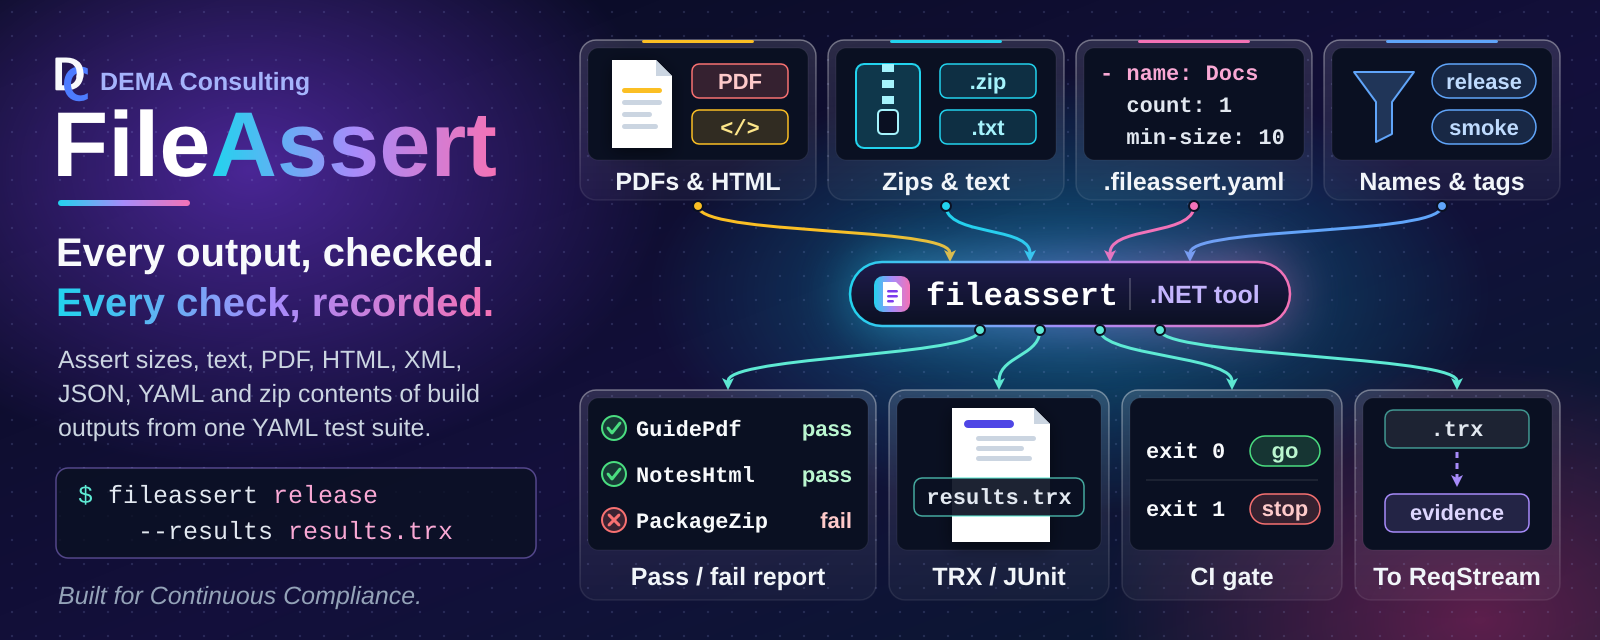
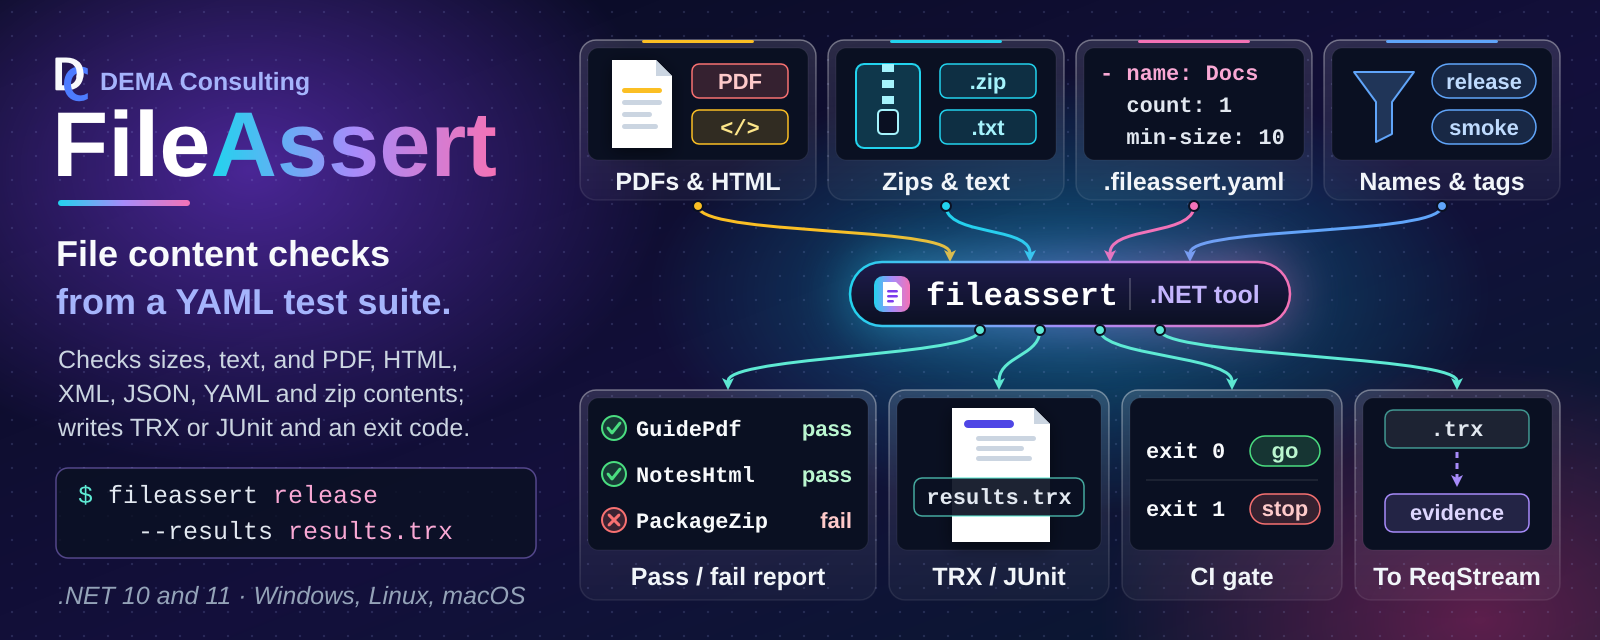
Sync agents/template and calm the README hero (#99)
* Sync shared agents, skills, standards, and AGENTS.md from Agents main

* Sync template: yamlfix comment setting and script CUSTOMIZATION headers

* Calm the README hero: plain tagline, hero as the H1

* Record the legacy SysML2 package layout as a standards exception

---------

Changed region(s): [[0.0312, 0.5312, 0.3125, 0.6875], [0.0312, 0.375, 0.3125, 0.5], [0.0312, 0.9062, 0.3438, 0.9688]]

diff --git a/.github/standards/sysml2-modeling.md b/.github/standards/sysml2-modeling.md
@@ -31,15 +31,15 @@ docs/sysml2/
 ├── common/
 │   └── software-items.sysml           # shared SoftwareItemMetadata::SoftwareInfo metadata def
 ├── model/
-│   ├── {system-name}.sysml            # system-level part def only (no subsystems/units inline)
+│   ├── {system-name}.sysml            # package {SystemName}; system-level part def only (no subsystems/units inline)
 │   ├── {system-name}/
-│   │   ├── {subsystem-name}.sysml     # subsystem part def; nests further for sub-subsystems
+│   │   ├── {subsystem-name}.sysml     # package {SystemName}_{SubsystemName}Subsystem; nests further for sub-subsystems
 │   │   └── {subsystem-name}/
-│   │       └── {unit-name}.sysml      # one file per unit
-│   ├── ots.sysml                      # OTS dependency parts (optional; if OTS items exist)
-│   └── shared.sysml                   # Shared Package parts (optional; if Shared Packages exist)
+│   │       └── {unit-name}.sysml      # package {SystemName}_{UnitName}; one file per unit
+│   ├── ots.sysml                      # package OtsDependencies: OTS parts (optional; if OTS items exist)
+│   └── shared.sysml                   # package SharedPackages: Shared Package parts (optional; if Shared Packages exist)
 └── views/
-    └── design-views.sysml             # named view usages rendered for the design document
+    └── design-views.sysml             # package {RepoName}DesignViews; named view usages rendered for the design document
 ```
 
 `docs/sysml2/common/software-items.sysml` defines the `SoftwareItemMetadata::SoftwareInfo`
@@ -62,14 +62,42 @@ so no single alias name would generalize. Agents discover the system(s) present 
 `docs/sysml2/**/*.sysml`, not by assuming a fixed name.
 
 Always pass the full set of `.sysml` files (or an equivalent glob) to every `sysml2tools`
-invocation — the model spans multiple files and cross-references between them; files sharing
-the same `package Name { ... }` merge into one namespace automatically with no `import`
-required, as long as all files are passed together. As of `sysml2tools` 0.1.0-beta.5,
+invocation — the model spans multiple files and cross-references between them, and a
+reference only resolves when the file declaring its target is loaded (see Package Structure
+below for how files reference each other). As of `sysml2tools` 0.1.0-beta.5,
 `lint` and `render` both expand `*`/`**` glob patterns internally (recursing correctly into
 subdirectories), so pass a single **quoted** glob string (e.g. `'docs/sysml2/**/*.sysml'`)
 and let the tool resolve it — do not rely on the shell to expand it, and do not quote-strip
 the pattern before it reaches the tool. Quoting keeps the behavior identical across
 PowerShell and bash, since neither shell needs to (or reliably does) expand `**` itself.
+
+## Package Structure
+
+SysML v2 has no package merging: each file is its own root namespace, and two root packages
+with the same name are duplicate members of the global namespace (the OMG Pilot
+Implementation reports "Duplicate of other owned member name" for each, and references across
+the halves do not resolve). A model that only loads because a tool is lenient is not portable,
+so:
+
+- Each `.sysml` file declares **exactly one uniquely named package**, and a package is never
+  declared (or "reopened") in more than one file.
+- Name each package from its place in the hierarchy, joined with an underscore:
+  `{SystemName}` for the system file, `{SystemName}_{SubsystemName}Subsystem` for a subsystem
+  (including a nested sub-subsystem, which is not prefixed with its parent subsystem), and
+  `{SystemName}_{UnitName}` for a unit. The system prefix keeps names unique across systems.
+  The shared files use `OtsDependencies` and `SharedPackages`, and the single views file uses
+  one repository-level package, `{RepoName}DesignViews` (not one per system).
+- Package names must be unique **repository-wide**. The short forms above are the default;
+  when one would collide (two `Storage` subsystems in different branches, or two units named
+  `Cache` in different subsystems), qualify it with the owning subsystem path, for example
+  `{SystemName}_{SubsystemName}_{UnitName}` (`Acme_Ingest_Cache` and `Acme_Query_Cache`).
+- Reference other files with an explicit `private import {PackageName}::*;` (a system or
+  subsystem file imports the package of each direct member so its `part` usages resolve; every
+  file that applies `SoftwareInfo` imports `SoftwareItemMetadata::*`).
+- Where an import would form a cycle (for example a unit that depends on a package that
+  already imports it), or for a one-off reference into another system, use the qualified name
+  instead, e.g. `dependency {UnitName} to {SystemName}_{OtherUnit}::{OtherUnit};`.
+  Import cycles raise a lint warning; qualified references do not.
 
 ## Model Content
 
@@ -174,11 +202,13 @@ Views control what gets rendered into diagrams for the design document. Use name
 **usages** (not `view def` **definitions**) — `expose` is only valid inside a usage:
 
 ```sysml
-package {SystemName} {
+package {RepoName}DesignViews {
     private import StandardViewDefinitions::*;
+    private import {SystemName}::*;
+    private import {SystemName}_{SubsystemName}Subsystem::*;
 
     view SoftwareStructureView : InterconnectionView {
-        expose {SystemName}::**;     // all members, recursively: system + subsystems + units
+        expose {SystemName}::{SystemName}System::**;  // system part def, recursively: subsystems + units
     }
 
     view {SystemName}View {
@@ -186,10 +216,12 @@ package {SystemName} {
     }
 
     view {SubsystemName}View {
-        expose {SubsystemName};      // one subsystem def only
+        expose {SubsystemName}Subsystem;      // one subsystem def only
     }
 }
 ```
+
+Views import (or qualify) every package whose members they expose, like any other file.
 
 Type `SoftwareStructureView` by a standard view definition from the SysML v2 Views library
 (`GeneralView`, `InterconnectionView`, ...; requires `sysml2tools` 0.3.0-beta.3+). The view
@@ -223,25 +255,27 @@ There is no dedicated `DependencyView`/`{SubsystemName}DependencyView` diagram c
 above), not rendered.
 
 When a repository has multiple systems, type `SoftwareStructureView` by `GeneralView`,
-expose each system package's members, and filter out documentation so the overview stays
-readable — the general view draws one package frame per system, while an interconnection
-view places all systems in a single row:
+expose each system's part def (and each subsystem's, by qualified name), and filter out
+documentation so the overview stays readable — the general view draws one package frame per
+system, while an interconnection view places all systems in a single row:
 
 ```sysml
 package {RepoName}DesignViews {
     private import StandardViewDefinitions::*;
 
     view SoftwareStructureView : GeneralView {
-        expose {SystemNameA}::**;
-        expose {SystemNameB}::**;
-        filter not @SysML::Documentation;
+        expose {SystemNameA}::{SystemNameA}System;
+        expose {SystemNameA}_{SubsystemName}Subsystem::{SubsystemName}Subsystem;
+        expose {SystemNameB}::{SystemNameB}System;
+        filter not (@SysML::Documentation);
     }
 }
 ```
 
 Documentation (`doc`) is exposed with its owner and drawn as a `doc` compartment unless a
-view filters it out; use `filter not @SysML::Documentation;` wherever doc text would clutter
-a diagram.
+view filters it out; use `filter not (@SysML::Documentation);` wherever doc text would clutter
+a diagram. The parentheses are required: the SysML v2 grammar does not accept the unparenthesized
+`filter not @SysML::Documentation;`.
 
 ## Diagram Embedding
 
@@ -313,6 +347,9 @@ sync.
   `sourceFiles`; the purpose statement appears only in the `doc` comment, never in `SoftwareInfo`
 - [ ] `docs/sysml2/views/design-views.sysml` uses `view Name { expose ...; }` usages, not
   `view def` definitions
+- [ ] Each `.sysml` file declares exactly one uniquely named package (never the same package
+  in two files), named per Package Structure, and references other files through
+  `private import` or qualified names (qualified where an import would form a cycle)
 - [ ] View names follow the `SoftwareStructureView` / `{SystemName}View` /
   `{SubsystemName}View` convention (no dedicated `DependencyView`)
 - [ ] Each Unit's real collaborators are captured as `dependency A to B;` statements, and each

diff --git a/.github/skills/sysml2tools-query/SKILL.md b/.github/skills/sysml2tools-query/SKILL.md
@@ -21,11 +21,15 @@ dotnet tool restore
 ## Model files
 
 - `docs/sysml2/model/{system-name}.sysml` — system-level `part def` only (no subsystems/units
-  inline). A repository may contain more than one system.
+  inline), in package `{SystemName}`. A repository may contain more than one system.
 - `docs/sysml2/model/{system-name}/{subsystem-name}.sysml` and
   `docs/sysml2/model/{system-name}/{subsystem-name}/{unit-name}.sysml` — one file per
   Subsystem/Unit, nested to mirror the same folder depth as that item's companion
-  `docs/design/`, `docs/reqstream/`, and `docs/verification/` files.
+  `docs/design/`, `docs/reqstream/`, and `docs/verification/` files. Each declares its own
+  uniquely named package; by default `{SystemName}_{SubsystemName}Subsystem` or
+  `{SystemName}_{UnitName}`, qualified with the subsystem path
+  (`{SystemName}_{SubsystemName}_{UnitName}`) when the short name would collide. An element's
+  qualified name is e.g. `{SystemName}_{UnitName}::{UnitName}`.
 - `docs/sysml2/model/ots.sysml` — off-the-shelf (OTS) dependency parts (present when OTS items
   exist).
 - `docs/sysml2/model/shared.sysml` — Shared Package parts (present when Shared Package items
@@ -35,9 +39,10 @@ dotnet tool restore
   useful to see how diagrams are scoped.
 
 Always pass all `.sysml` files (or a glob covering them) to every `sysml2tools`
-invocation — the model spans multiple files and cross-references between them; files that
-reopen the same `package Name { ... }` from different files merge into one namespace
-automatically, no `import` required. As of `sysml2tools` 0.1.0-beta.5, every subcommand
+invocation — the model spans multiple files and cross-references between them (each file
+declares one uniquely named package and references others through `import` or qualified
+names; same-named packages in different files are not merged), so every file a reference
+points at must be loaded. As of `sysml2tools` 0.1.0-beta.5, every subcommand
 (`lint`, `render`, `query`) expands `*`/`**` glob patterns internally and recurses
 correctly — pass a single **quoted** glob string and let the tool resolve it, rather than
 relying on the shell (quoting works identically in both PowerShell and bash):
@@ -57,7 +62,7 @@ summary line, so one query gets you every artifact location for that item withou
 the source tree:
 
 ```pwsh
-dotnet sysml2tools query describe -e {SystemName}::{UnitName} 'docs/sysml2/**/*.sysml'
+dotnet sysml2tools query describe -e {SystemName}_{UnitName}::{UnitName} 'docs/sysml2/**/*.sysml'
 ```
 
 ```text

diff --git a/AGENTS.md b/AGENTS.md
@@ -158,10 +158,30 @@ requires it and the modification preserves the documented design intent:
 
 - `.reviewmark.yaml`, `.textlint.yaml`, `.editorconfig`
 - `.lintmark.yaml`, `.yamllint.yaml`
-- `requirements.yaml`, `fix.ps1`, `lint.ps1`
+- `requirements.yaml`
+
+# Project Scripts
+
+`build.ps1`, `lint.ps1`, and `fix.ps1` belong to the project: extend them as it grows. Add project-specific
+steps, update tool versions, and add optional parameters that focus a run (for example one library in a
+multi-library repository, or headless tests without GUI automation). Two rules keep them trustworthy:
+
+- Run with no arguments, each script still does its full job (CI and the agents rely on that); slow or
+  environment-dependent test tiers may be opt-in switches of `build.ps1`.
+- Never remove or weaken a check to make lint or tests pass.
 
 # Continuous Compliance Overview
 
 This repository follows the [Continuous Compliance](https://github.com/demaconsulting/ContinuousCompliance)
 approach. Tools: **ReqStream** (requirements traceability), **ReviewMark** (file review enforcement),
 **BuildMark** (tool versions), **VersionMark** (version tracking).
+
+# Repository-Specific Standards Exceptions
+
+## SysML2 package structure (legacy layout, migration pending)
+
+The model under `docs/sysml2/` still uses the earlier layout: `package FileAssert` is reopened in 27 files under
+`docs/sysml2/model/` and in `views/design-views.sysml` (not `FileAssertDesignViews`), and Shared Packages live in
+`SharedDependencies` (not `SharedPackages`). The Package Structure rules in `sysml2-modeling.md` and the matching
+qualified-name examples in the `sysml2tools-query` skill apply once the model is migrated in a dedicated PR; until
+then, query and extend the model using the existing package names and do not partially restructure it.

diff --git a/README.md b/README.md
@@ -1,4 +1,4 @@
-# DemaConsulting.FileAssert
+# ![FileAssert: File content checks from a YAML test suite. Checks sizes, text, and PDF, HTML, XML, JSON, YAML and zip contents; writes TRX or JUnit and an exit code. Shown with the command 'fileassert release --results results.trx' and the note '.NET 10 and 11, Windows, Linux, macOS'. Built PDFs and HTML pages, zips and text files, the .fileassert.yaml test suite, and the test names and tags to run flow into the fileassert .NET tool, and arrows lead out to a pass/fail report of the tests, a TRX or JUnit results file, a CI gate that passes with exit 0 and stops with exit 1, and, downstream, the TRX file used by ReqStream as test evidence][hero]
 
 [![GitHub forks][badge-forks]][link-forks]
 [![GitHub stars][badge-stars]][link-stars]
@@ -8,12 +8,6 @@
 [![Quality Gate][badge-quality]][link-quality]
 [![Security][badge-security]][link-security]
 [![NuGet][badge-nuget]][link-nuget]
-
-![FileAssert banner: the FileAssert name with the tagline 'Every output, checked. Every check, recorded.' and the
-command 'fileassert release --results results.trx'. Built PDFs and HTML pages, zips and text files, the
-.fileassert.yaml test suite, and the test names and tags to run flow on curved arrows into the fileassert .NET tool,
-and arrows lead out to a pass/fail report for every test, a TRX or JUnit results file, a CI gate that passes with
-exit 0 and stops with exit 1, and, as a downstream destination, the TRX file used as ReqStream test evidence][hero]
 
 ## Overview
 

diff --git a/.github/agents/orchestrator.agent.md b/.github/agents/orchestrator.agent.md
@@ -48,3 +48,16 @@ briefly, what you loaded.
   let the user answer in their own words. Do not batch decisions into structured question forms (such as an
   `ask_user` tool); they strip away the context the user needs to decide and turn the session into a
   questionnaire.
+
+# Pull Requests (MANDATORY)
+
+Aim for pull requests that each merge one complete, useful change that could be cherry-picked on its own.
+
+- Before starting work that could span more than one pull request, propose the grouping and let the user
+  decide. The user may split it, or combine several small requests into one pull request.
+- When splitting, split by behavior, not by layer or file type: each part carries its own code, tests,
+  requirements, and docs, builds and passes alone, and leaves no stubs or dead code for a later part.
+- Deliver parts in order: start the next part from main only after the previous one merges.
+- Review fixes, lint fixes, and follow-ups go into the open pull request they belong to, not a new one.
+- Sub-agents work on the agreed branch and do not open pull requests; you decide when it is complete.
+- Keep mechanical churn (formatting, renames, generated files) in its own commit so reviewers can skip it.

diff --git a/.github/agents/planning.agent.md b/.github/agents/planning.agent.md
@@ -52,10 +52,13 @@ Repeat up to 2 more times, stopping when the plan is stable.
 
 List up to 5 risks with a brief mitigation for each.
 
-## Step 6 — Feasibility Assessment
+## Step 6 — Feasibility and Delivery
 
 State whether this can be implemented in a single development pass and any
-preconditions that affect feasibility.
+preconditions that affect feasibility. Propose how the work groups into pull
+requests: one complete, useful change per pull request where possible; if it
+should be split, list ordered parts that are split by behavior (not by layer or
+file type) and each build, pass, and deliver something on their own.
 
 ## Step 7 — Recommendation
 
@@ -108,9 +111,12 @@ Then respond to the caller with ONLY the lean structured summary below.
 
 1. **[severity]** {risk} — {mitigation}
 
-## Feasibility Assessment
+## Feasibility and Delivery
 
 {Single-pass or not, and why. Any preconditions.}
+
+{Proposed pull-request grouping: one pull request, or ordered parts split by behavior,
+each with what it delivers on its own.}
 
 ## Unknowns
 
